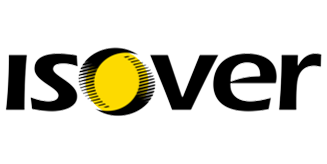
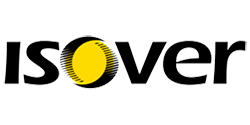
Upravená loga dodavatelů na stejnou šířku a nyní se řídí přes media-query, drobné úpravy

diff --git a/index.html b/index.html
@@ -191,23 +191,22 @@
         <h3 class="font-weight-bold title">Reference</h3> <!-- TODO Dodělat -->
         <div class="form-group col-md-4">
             <i class="fas fa-filter color-primary me-3"></i>
-                <select class="custom-select col-6" onchange="filterSelection(this.value)">
-                    <option selected value="vse">Vše</option>
-                    <option value="strechy">Střechy</option>
-                    <option value="garaze">Garáže</option>
-                    <option value="podlahy">Podlahy</option>
-                    <option value="pergoly">Pergoly</option>
-                    <option value="stity">Štíty</option>
-                    <option value="ostatni">Ostatní</option>
-                </select>
+            <select class="custom-select col-6 col-md-10 col-lg-6" onchange="filterSelection(this.value)">
+                <option selected value="vse">Vše</option>
+                <option value="strechy">Střechy</option>
+                <option value="garaze">Garáže</option>
+                <option value="podlahy">Podlahy</option>
+                <option value="pergoly">Pergoly</option>
+                <option value="stity">Štíty</option>
+                <option value="ostatni">Ostatní</option>
+            </select>
         </div>
         <!-- TODO Pouze mobile-view -->
         <!-- TODO Jiné zobrazení pro vyfiltrované položky a všechny položky -->
         <div class="container d-flex m-auto">
             <div class="row justify-content-around">
                 <div class="my-5 col-12 col-md-6 col-lg-4 filterClass garaze"> <!-- TODO nefunguje col-sm a col-lg -->
-                    <span class="reference-overlay">
-                        <!-- TODO Vymyslet lépe -->
+                    <div class="reference-overlay">
                         <div class="reference-desc hide w-100 h-100">
                             <ul class="lst-none p-0 m-auto">
                                 <li class="fw-bold fs-1">Garáž Praha-Pankrác</li>
@@ -216,10 +215,10 @@
                             </ul>
                         </div>
                         <img src="assets/images/reference/garaze/01.jpg" class="w-100" alt=""/>
-                    </span>
+                    </div>
                 </div>
                 <div class="my-5 col-12 col-md-6 col-lg-4 filterClass strechy"> <!-- TODO nefunguje col-sm a col-lg -->
-                    <span class="reference-overlay">
+                    <div class="reference-overlay">
                         <!-- TODO Vymyslet lépe -->
                         <div class="reference-desc hide w-100 h-100">
                             <ul class="lst-none p-0 m-auto">
@@ -229,7 +228,7 @@
                             </ul>
                         </div>
                         <img src="assets/images/reference/strechy/01.jpg" class="w-100" alt=""/>
-                    </span>
+                    </div>
                 </div>
             </div>
         </div>
@@ -242,22 +241,22 @@
         <h3 class="font-weight-bold title">Partneři a dodavatelé</h3> <!-- TODO Dodělat -->
         <div class="row dodavatele justify-content-around">
             <div class="col-6 col-md-4 col-lg-2">
-                <img src="assets/images/partners/bramac.png" width="90%" alt="Bramac" loading="lazy">
+                <img src="assets/images/partners/bramac.png" alt="Bramac" loading="lazy">
             </div>
             <div class="col-6 col-md-4 col-lg-2">
-                <img src="assets/images/partners/velux.png" width="90%" alt="Velux" loading="lazy">
+                <img src="assets/images/partners/velux.png" alt="Velux" loading="lazy">
             </div>
             <div class="col-6 col-md-4 col-lg-2">
-                <img src="assets/images/partners/isover.png" width="90%" alt="Isover" loading="lazy">
+                <img src="assets/images/partners/isover.png" alt="Isover" loading="lazy">
             </div>
             <div class="col-6 col-md-4 col-lg-2">
-                <img src="assets/images/partners/rigips.png" width="90%" alt="Rigips" loading="lazy">
+                <img src="assets/images/partners/rigips.png" alt="Rigips" loading="lazy">
             </div>
             <div class="col-6 col-md-4 col-lg-2">
-                <img src="assets/images/partners/dek.png" width="90%" alt="DEK Trade" loading="lazy">
+                <img src="assets/images/partners/dek.png" alt="DEK Trade" loading="lazy">
             </div>
             <div class="col-6 col-md-4 col-lg-2">
-                <img src="assets/images/partners/jaf.png" width="90%" alt="JAF Holz" loading="lazy">
+                <img src="assets/images/partners/jafholz.png" alt="JAF Holz" loading="lazy">
             </div>
         </div>
     </div>
@@ -269,10 +268,10 @@
         <div class="row">
             <div class="col-5">
                 <ul class="lst-none p-0">
-                    <li>JIRFA, s.r.o.</li>
-                    <li><strong>V Rovinách 55</strong></li>
-                    <li><strong>140 00</strong></li>
-                    <li><strong>Praha 4</strong></li>
+                    <li><strong>JIRFA, s.r.o.</strong></li>
+                    <li>V Rovinách 55</li>
+                    <li>140 00</li>
+                    <li>Praha 4</li>
                     <li><a href="https://jirfa.cz" class="text-decoration-none color-secondary link">
                         <i class="fas fa-globe color-secondary me-2"></i>
                         jirfa.cz
@@ -285,7 +284,7 @@
             </div>
             <div class="col-7 ps-3">
                 <div class="mb-3">
-                    <a><strong>Jednatelé:</strong></a>
+                    <p><strong>Jednatelé:</strong></p>
                 </div>
                 <div class="mb-3">
                     <ul class="lst-none p-0">

diff --git a/assets/styles/style.css b/assets/styles/style.css
@@ -201,6 +201,26 @@ nav #logo {
     -webkit-filter: grayscale(100%);
     filter: grayscale(100%);
 }
+
+    @media screen and (min-width: 576px) and (max-width: 768px) {
+        .dodavatele img {
+            width: 15rem;
+        }
+    }
+
+    @media screen and (min-width: 768px) and (max-width: 992px) {
+        .dodavatele img {
+            width: 18rem;
+            margin: .5rem 0;
+        }
+    }
+
+    @media screen and (min-width: 992px) {
+        .dodavatele img {
+            width: 25rem;
+        }
+    }
+
 .dodavatele img:hover {
     opacity: 1;
     -webkit-filter: grayscale(0%);
